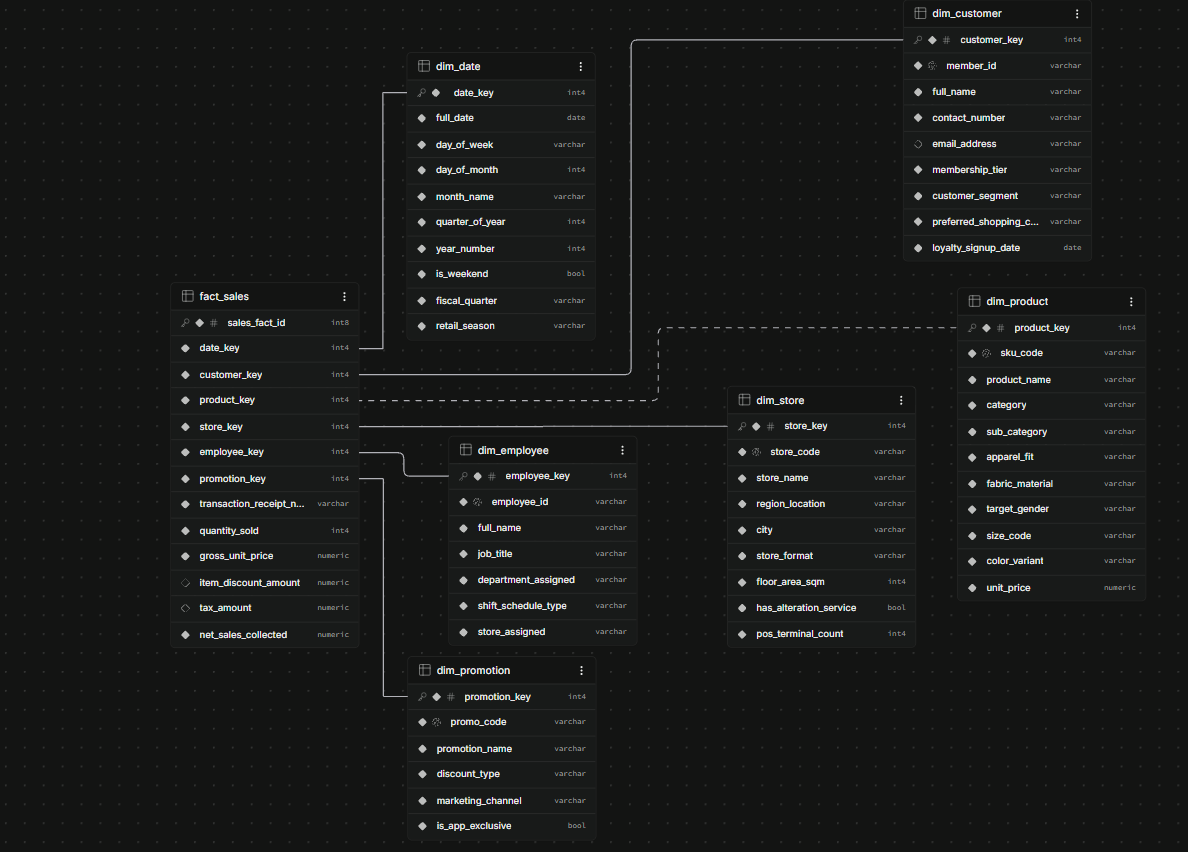
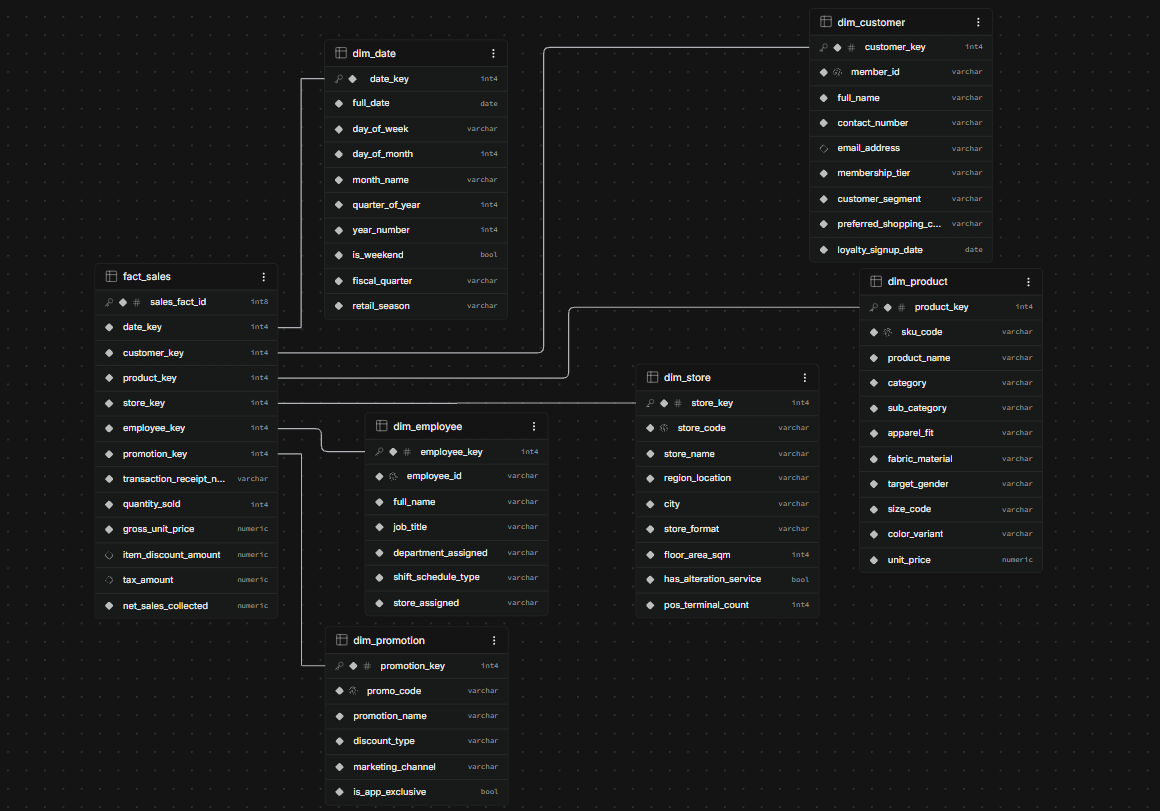
Update warehouse diagram and table cards

diff --git a/src/components/WarehouseSchema.tsx b/src/components/WarehouseSchema.tsx
@@ -22,31 +22,31 @@ export function WarehouseSchema({ onClose }: { onClose: () => void }) {
         <button type="button" className="action-btn" aria-label="Close schema" onClick={() => dialog.current?.close()}><X size={18} /></button>
       </div>
       <div className="warehouse-dialog-body">
-      <img className="warehouse-diagram" src="/assets/warehouse-schema.png" alt="Star schema showing fact_sales linked to the date, product, store, employee, customer, and promotion dimensions" />
-      <h3>Warehouse tables</h3>
-      <p>Six dimension tables describe each sale in <code>public.fact_sales</code>. Each foreign key links to the matching dimension’s primary key.</p>
-      <article className="card warehouse-fact">
-        <h3><Database size={19} aria-hidden="true" /> <code>fact_sales</code></h3>
-        <p>One row per recorded sale line item.</p>
-        <ul className="warehouse-fields" aria-label="Fact table columns">
-          <li><code>sales_fact_id</code> <strong>PK</strong></li>
-          {dimensions.map(({ key, name }) => <li key={key}><a href={`#warehouse-${name}`}><code>{key}</code> <strong>FK</strong></a></li>)}
-          {['transaction_receipt_number', 'quantity_sold', 'gross_unit_price', 'item_discount_amount', 'tax_amount', 'net_sales_collected'].map(field => <li key={field}><code>{field}</code></li>)}
-        </ul>
-      </article>
-      <div className="warehouse-dimensions">
-        {dimensions.map(({ name, key, grain, fields }) => (
-          <article className="card" key={name} id={`warehouse-${name}`}>
-            <h3><Link2 size={18} aria-hidden="true" /> <code>{name}</code></h3>
-            <p>{grain}</p>
-            <p className="warehouse-join"><code>fact_sales.{key}</code> → <code>{name}.{key}</code></p>
-            <ul className="warehouse-fields" aria-label={`${name} columns`}>
-              <li><code>{key}</code> <strong>PK</strong></li>
-              {fields.map(field => <li key={field}><code>{field}</code></li>)}
-            </ul>
-          </article>
-        ))}
-      </div>
+        <img className="warehouse-diagram" src="/assets/warehouse-schema.png?v=2" width={1160} height={811} alt="Star schema showing fact_sales linked to the date, product, store, employee, customer, and promotion dimensions" />
+        <h3 className="warehouse-tables-title">Warehouse Tables</h3>
+        <p>Six dimension tables describe each sale in <code>public.fact_sales</code>. Each foreign key links to the matching dimension’s primary key.</p>
+        <article className="card warehouse-fact">
+          <h3><Database size={19} aria-hidden="true" /> <code>fact_sales</code><span className="warehouse-table-type">Fact table</span></h3>
+          <p>One row per recorded sale line item.</p>
+          <ul className="warehouse-fields" aria-label="Fact table columns">
+            <li><code>sales_fact_id</code> <strong>PK</strong></li>
+            {dimensions.map(({ key, name }) => <li key={key}><a href={`#warehouse-${name}`}><code>{key}</code> <strong>FK</strong></a></li>)}
+            {['transaction_receipt_number', 'quantity_sold', 'gross_unit_price', 'item_discount_amount', 'tax_amount', 'net_sales_collected'].map(field => <li key={field}><code>{field}</code></li>)}
+          </ul>
+        </article>
+        <div className="warehouse-dimensions">
+          {dimensions.map(({ name, key, grain, fields }) => (
+            <article className="card" key={name} id={`warehouse-${name}`}>
+              <h3><Link2 size={18} aria-hidden="true" /> <code>{name}</code><span className="warehouse-table-type">Dimension</span></h3>
+              <p>{grain}</p>
+              <p className="warehouse-join"><code>fact_sales.{key}</code> → <code>{name}.{key}</code></p>
+              <ul className="warehouse-fields" aria-label={`${name} columns`}>
+                <li><code>{key}</code> <strong>PK</strong></li>
+                {fields.map(field => <li key={field}><code>{field}</code></li>)}
+              </ul>
+            </article>
+          ))}
+        </div>
       </div>
       <div className="warehouse-dialog-footer">
         <button type="button" className="action-btn" onClick={() => dialog.current?.close()}>Close</button>

diff --git a/src/index.css b/src/index.css
@@ -1121,3 +1121,12 @@ body.light .overview-hero .overview-eyebrow { color: #ffb2bb; }
 .llm-scenario-grid .llm-chip { display: grid; gap: 4px; text-align: left; white-space: normal; }
 .llm-scenario-grid span { color: var(--muted); font-weight: 400; }
 @media (max-width: 520px) { .llm-scenario-grid { grid-template-columns: 1fr; } }
+
+.warehouse-dialog-heading h2 { font-family: 'DM Sans', sans-serif; font-weight: 800; line-height: 1.2; }
+.warehouse-tables-title { margin-top: 20px; font-weight: 750; }
+.warehouse-dialog-body article.card { padding: clamp(14px, 2vw, 20px); }
+.warehouse-dialog-body article h3 { flex-wrap: wrap; font-weight: 700; }
+.warehouse-table-type { margin-inline-start: auto; color: var(--accent); font: 600 11px 'DM Sans', sans-serif; }
+.warehouse-dimensions { grid-template-columns: repeat(3, minmax(0, 1fr)); }
+@media (max-width: 850px) { .warehouse-dimensions { grid-template-columns: repeat(2, minmax(0, 1fr)); } }
+@media (max-width: 520px) { .warehouse-dimensions { grid-template-columns: 1fr; } }
